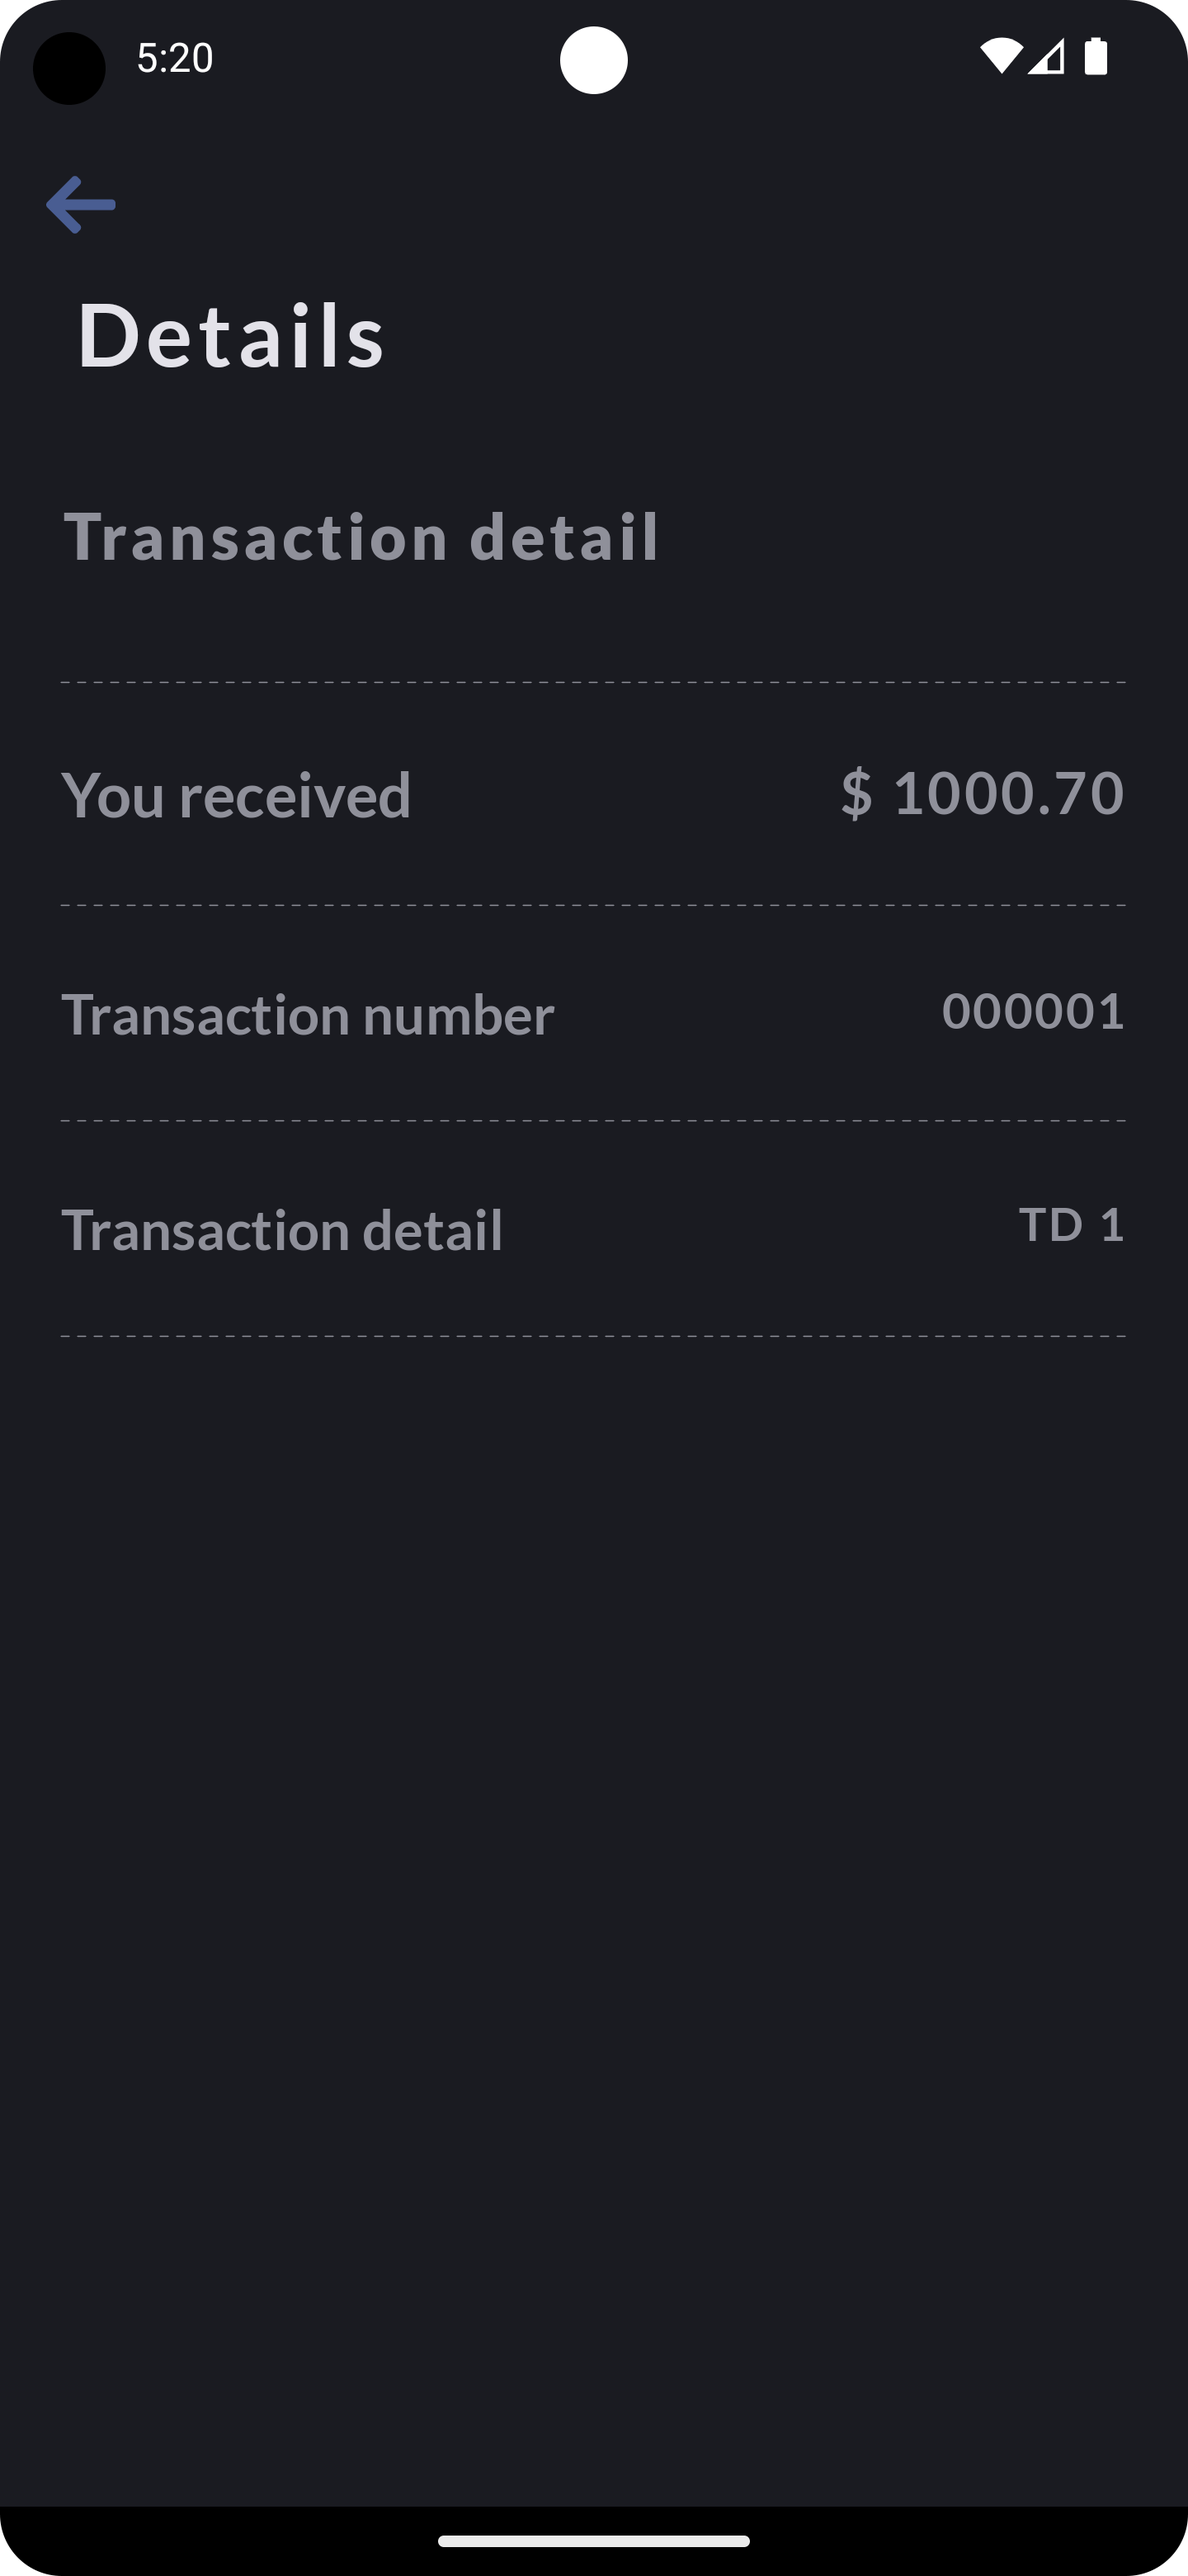
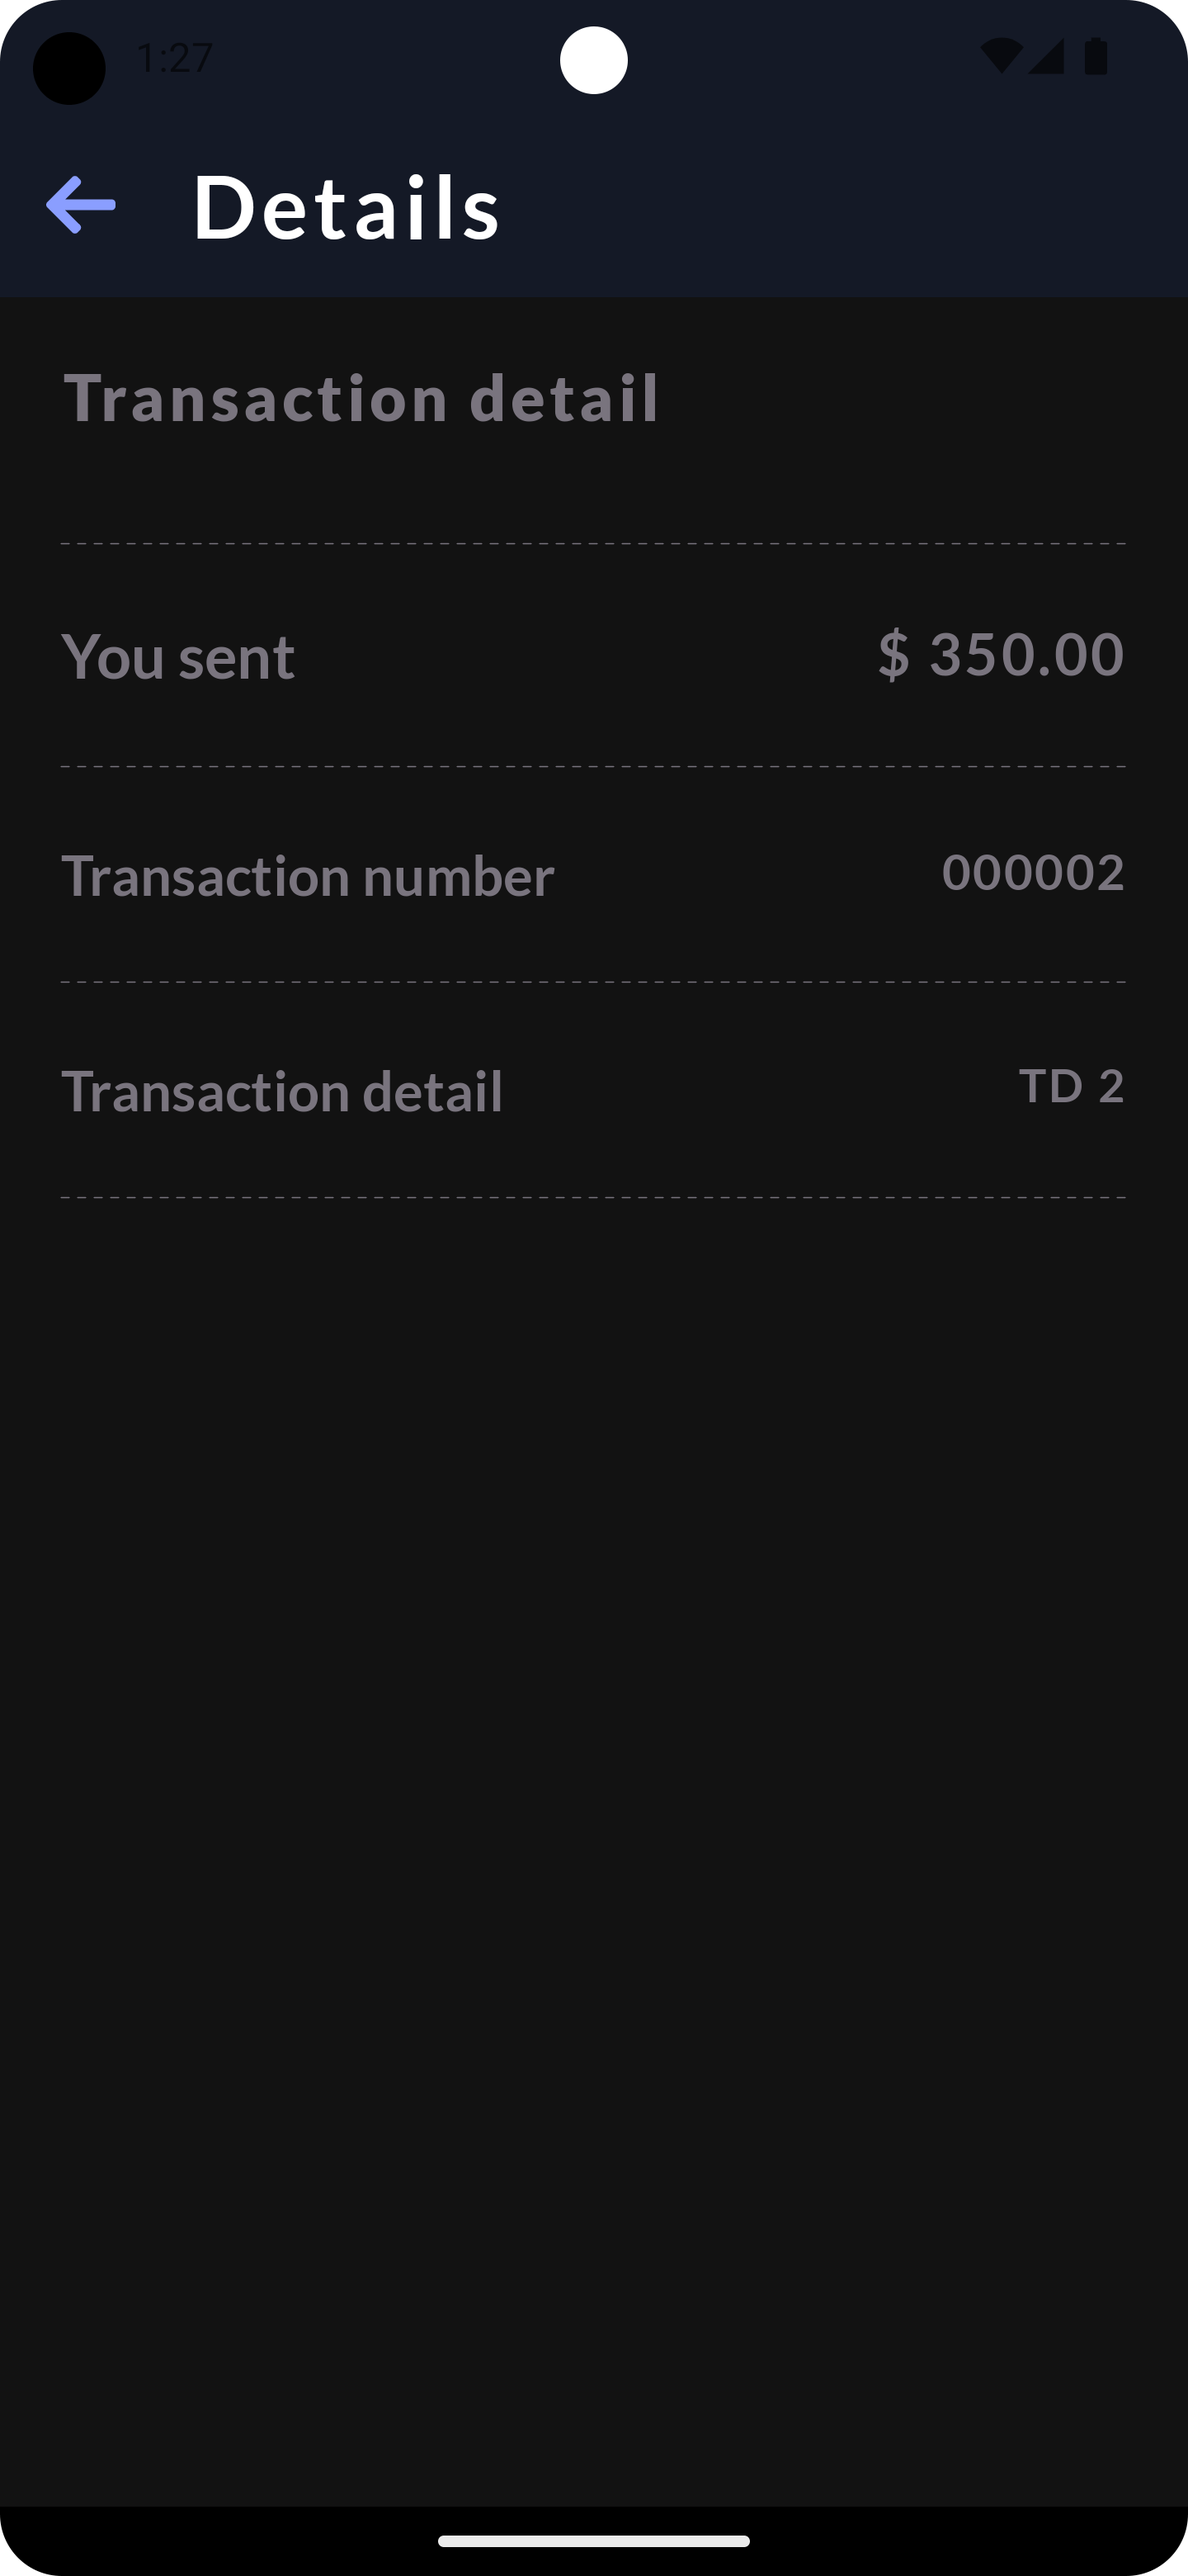
Colors and 'statusBarColor' are updated

diff --git a/app/src/main/java/com/stori/challenge/ui/theme/Color.kt b/app/src/main/java/com/stori/challenge/ui/theme/Color.kt
@@ -2,56 +2,57 @@ package com.stori.challenge.ui.theme
 
 import androidx.compose.ui.graphics.Color
 
-val storiLightPrimary = Color(0xFF2962FF) // Azul Headspace
+val storiLightPrimary = Color(0xFF2962FF)
 val storiLightOnPrimary = Color(0xFFFFFFFF)
-val storiLightPrimaryContainer = Color(0xFF758FFF) // Azul claro Headspace
+val storiLightPrimaryContainer = Color(0xFF758FFF)
 val storiLightOnPrimaryContainer = Color(0xFF000000)
-val storiLightSecondary = Color(0xFF00E5FF) // Cian Headspace
+val storiLightSecondary = Color(0xFF00E5FF)
 val storiLightOnSecondary = Color(0xFF000000)
-val storiLightSecondaryContainer = Color(0xFF73E8FF) // Cian claro Headspace
+val storiLightSecondaryContainer = Color(0xFF73E8FF)
 val storiLightOnSecondaryContainer = Color(0xFF000000)
-val storiLightTertiary = Color(0xFFFFD600) // Amarillo Headspace
+val storiLightTertiary = Color(0xFFFFD600)
 val storiLightOnTertiary = Color(0xFF000000)
-val storiLightTertiaryContainer = Color(0xFFFFE352) // Amarillo claro Headspace
+val storiLightTertiaryContainer = Color(0xFFFFE352)
 val storiLightOnTertiaryContainer = Color(0xFF000000)
-val storiLightError = Color(0xFFB00020) // Error color
+val storiLightError = Color(0xFFB00020)
 val storiLightErrorContainer = Color(0xFFFCD8D8)
 val storiLightOnError = Color(0xFFFFFFFF)
 val storiLightOnErrorContainer = Color(0xFF370000)
-val storiLightBackground = Color(0xFFFFFBFE) // Fondo claro Headspace
+val storiLightBackground = Color(0xFFFFFBFE)
 val storiLightOnBackground = Color(0xFF1C1B1F)
 val storiLightSurface = Color(0xFFFFFBFE)
 val storiLightOnSurface = Color(0xFF1C1B1F)
-val storiLightSurfaceVariant = Color(0xFFE7E0EC) // Variante de superficie Headspace
+val storiLightSurfaceVariant = Color(0xFFE7E0EC)
 val storiLightOnSurfaceVariant = Color(0xFF49454F)
-val storiLightOutline = Color(0xFF79747E) // Contorno Headspace
+val storiLightOutline = Color(0xFF79747E)
 val storiLightInverseOnSurface = Color(0xFFF2E1F8)
 val storiLightInverseSurface = Color(0xFF313033)
 val storiLightPrimaryInverse = Color(0xFFB3C1FF)
 
-val storiDarkPrimary = Color(0xFF2962FF) // Azul Headspace para modo oscuro
+val storiDarkPrimary = Color(0xFF2962FF)
 val storiDarkOnPrimary = Color(0xFFFFFFFF)
-val storiDarkPrimaryContainer = Color(0xFF0044C8) // Azul Headspace contenedor oscuro
+val storiDarkPrimaryContainer = Color(0xFF0044C8)
 val storiDarkOnPrimaryContainer = Color(0xFFFFFFFF)
-val storiDarkSecondary = Color(0xFF00E5FF) // Cian Headspace para modo oscuro
+val storiDarkSecondary = Color(0xFF00E5FF)
 val storiDarkOnSecondary = Color(0xFF000000)
-val storiDarkSecondaryContainer = Color(0xFF01879D) // Cian Headspace contenedor oscuro
+val storiDarkSecondaryContainer = Color(0xFF01879D)
 val storiDarkOnSecondaryContainer = Color(0xFFFFFFFF)
-val storiDarkTertiary = Color(0xFFFFD600) // Amarillo Headspace para modo oscuro
+val storiDarkTertiary = Color(0xFFFFD600)
 val storiDarkOnTertiary = Color(0xFF000000)
-val storiDarkTertiaryContainer = Color(0xFFC7A500) // Amarillo Headspace contenedor oscuro
+val storiDarkTertiaryContainer = Color(0xFFC7A500)
 val storiDarkOnTertiaryContainer = Color(0xFFFFFFFF)
-val storiDarkError = Color(0xFFCF6679) // Error color para modo oscuro
+val storiDarkError = Color(0xFFCF6679)
 val storiDarkErrorContainer = Color(0xFFB00020)
 val storiDarkOnError = Color(0xFFFFFFFF)
 val storiDarkOnErrorContainer = Color(0xFF370000)
-val storiDarkBackground = Color(0xFF121212) // Fondo oscuro Headspace
+val storiDarkBackground = Color(0xFF121212)
 val storiDarkOnBackground = Color(0xFFFFFFFF)
 val storiDarkSurface = Color(0xFF121212)
 val storiDarkOnSurface = Color(0xFFFFFFFF)
-val storiDarkSurfaceVariant = Color(0xFF434343) // Variante de superficie Headspace para modo oscuro
+val storiDarkSurfaceVariant = Color(0xFF434343)
 val storiDarkOnSurfaceVariant = Color(0xFFFFFFFF)
-val storiDarkOutline = Color(0xFF79747E) // Contorno Headspace para modo oscuro
+val storiDarkOutline = Color(0xFF79747E)
 val storiDarkInverseOnSurface = Color(0xFFEDE7F6)
 val storiDarkInverseSurface = Color(0xFF1F1A24)
 val storiDarkPrimaryInverse = Color(0xFF8A9EFF)
+val successColor = Color(0xFF6DC070)

diff --git a/app/src/main/java/com/stori/challenge/ui/views/MainForm.kt b/app/src/main/java/com/stori/challenge/ui/views/MainForm.kt
@@ -36,6 +36,7 @@ import com.stori.challenge.ui.navigation.Screen.Splash
 import com.stori.challenge.ui.navigation.Screen.Success
 import com.stori.challenge.ui.navigation.UID
 import com.stori.challenge.ui.theme.LocalDim
+import com.stori.challenge.ui.theme.successColor
 import com.stori.challenge.ui.viewmodels.MainViewModel
 import com.stori.challenge.util.extensions.safeNavigate
 import kotlinx.coroutines.launch
@@ -84,6 +85,8 @@ fun MainForm(
         navController.addOnDestinationChangedListener { _, destination, _ ->
             when (destination.route) {
                 Login.route -> updateStatusBarColor(colors.primary)
+                Success.route -> updateStatusBarColor(successColor)
+                Splash.route -> updateStatusBarColor(colors.secondary)
                 else -> updateStatusBarColor(Color.Transparent)
             }
         }

diff --git a/app/src/main/java/com/stori/challenge/ui/views/register/SuccessfulRegistrationScreen.kt b/app/src/main/java/com/stori/challenge/ui/views/register/SuccessfulRegistrationScreen.kt
@@ -30,7 +30,7 @@ import com.stori.challenge.ui.components.CustomButton
 import com.stori.challenge.ui.navigation.Screen
 import com.stori.challenge.ui.navigation.UID
 import com.stori.challenge.ui.theme.LocalDim
-import com.stori.challenge.ui.theme.storiDarkInverseSurface
+import com.stori.challenge.ui.theme.successColor
 import com.stori.challenge.util.extensions.safeNavigate
 
 @Composable
@@ -53,7 +53,7 @@ fun SuccessfulRegistrationScreen(navController: NavHostController) {
     Column(
         modifier = Modifier
             .fillMaxSize()
-            .background(storiDarkInverseSurface),
+            .background(successColor),
         horizontalAlignment = Alignment.CenterHorizontally,
     ) {
         Column(
